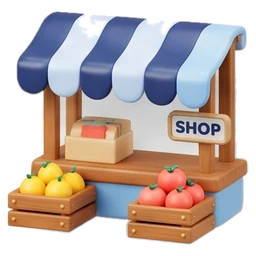
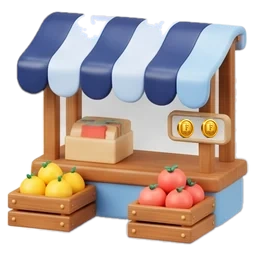
Revisão 18/11 (cara de rascunho): Carteiro com casinhas pintadas numa rua da vila, Corre-Som com placas grandes e toque igual nas 3 pistas, barraca da Lojinha sem "SHOP", ícones 3D para Meu boneco e Passear 3D, tutorial com figuras 3D, fundos sem a Sofia e o Tales repetidos
Claude-Session: https://claude.ai/code/session_01XFnar5EqvbkeuXqeMQuF5Q

Changed region(s): [[0.6875, 0.4375, 0.875, 0.5625]]

diff --git a/app/web/src/telas/crianca/Tutorial.tsx b/app/web/src/telas/crianca/Tutorial.tsx
@@ -16,7 +16,7 @@ import { PASSOS_TUTORIAL, estadoDoCaminho, marcarTutorial, missaoDeHoje, passoPa
 import { useCrianca } from '../../contexto.tsx';
 import { navegar } from '../../rotas.ts';
 import { AvatarMini, Carregando } from '../../componentes/basicos.tsx';
-import { Icone } from '../../componentes/ui.tsx';
+import { Figura, Icone } from '../../componentes/ui.tsx';
 import { PersonagemVivo, temBustoVivo } from '../../componentes/PersonagemVivo.tsx';
 import { BarraMissao, CaminhoEtapas } from '../../componentes/Guia.tsx';
 import { asset, modoTeste } from '../../servicos/ambiente.ts';
@@ -36,6 +36,8 @@ const FALAS_DO_PASSO: Fala[][] = [
   [F.barra1, F.barra2]
 ];
 const NOME_PASSO = ['O mundo', 'O caminho', 'Como mexer', 'O que você ganha', 'Os jogos', 'A primeira missão'];
+/** Revisão 18/11 (item 23): no passo do Brincar, cada brincadeira com a figura 3D da capa dela (como no Brincar), não ícone chapado. */
+const FIGURA_JOGO: Record<string, string> = { comprida: 'formiga', escondida: 'sapato', rimas: 'rato', intruso: 'vela', comeco: 'sapo', palmas: 'abacaxi' };
 const FIGURA_PASSO = ['arte/icones/mapa.webp', 'figuras/estrela.webp', 'figuras/dedo.webp', 'recompensas/moeda.webp', 'figuras/pandeiro.webp', 'modelos3d/bau.webp'];
 
 type Mexer = 'tocar' | 'arrastar' | 'botoes' | 'pronto';
@@ -134,7 +136,7 @@ export function Tutorial({ criancaId, deNovo }: { criancaId: string; deNovo: boo
   return (
     <div className={`tela-tutorial passo-${passo}`} data-testid="tutorial" data-passo={passo}>
       <div className="tut-fundo" aria-hidden="true">
-        {passo === 0 ? <div className="tut-camera"><img src={asset('arte/mapa-arquipelago.webp')} alt="" draggable={false} /></div> : <img className="tut-paisagem" src={asset('arte/hero-paisagem.webp')} alt="" draggable={false} />}
+        {passo === 0 ? <div className="tut-camera"><img src={asset('arte/mapa-arquipelago.webp')} alt="" draggable={false} /></div> : <img className="tut-paisagem" src={asset('arte/paisagem-sem-dupla.webp')} alt="" draggable={false} />}
       </div>
 
       <header className="tut-topo">
@@ -310,7 +312,7 @@ function PassoJogos() {
       </div>
       <ul className="tut-jogos-lista" aria-label="Alguns jogos">
         {JOGOS_ESCUTA.slice(0, 6).map((j, i) => (
-          <li key={j.id} className={`cor-${j.cor}`} style={{ ['--i' as string]: i }}><Icone nome={j.icone} /><span>{j.nome}</span></li>
+          <li key={j.id} className={`cor-${j.cor}`} style={{ ['--i' as string]: i }}>{FIGURA_JOGO[j.id] ? <Figura palavra={FIGURA_JOGO[j.id]} /> : <Icone nome={j.icone} />}<span>{j.nome}</span></li>
         ))}
       </ul>
     </section>

diff --git a/app/web/src/telas/crianca/DocaVila.tsx b/app/web/src/telas/crianca/DocaVila.tsx
@@ -69,7 +69,7 @@ export function DocaVila({ criancaId, progresso, faseId, mundo3d }: { criancaId:
         {RECURSOS.brincar ? <BotaoDoca onClick={() => { marcarVistoAqui(criancaId, 'som'); ir(`${c}/brincar`); }} figura={<img className="ic ic3d" src={asset('figuras/pandeiro.webp')} alt="" draggable={false} />} rotulo="Brincar" testid="ir-brincar" ponto="brincar" novo={ehNovo(progresso, criancaId, 'jogo') || ehNovo(progresso, criancaId, 'som')} /> : null}
         {lojinha
           ? <BotaoDoca onClick={() => { marcarVistoAqui(criancaId, 'peca'); ir(`${c}/lojinha`); }} figura={<Icone nome="lojinha" />} rotulo="Lojinha" testid="ir-lojinha" ponto="lojinha" novo={ehNovo(progresso, criancaId, 'peca')} />
-          : <BotaoDoca onClick={() => { marcarVistoAqui(criancaId, 'peca'); ir(`${c}/avatar`); }} figura={<Icone nome="casa" />} rotulo="Meu boneco" testid="ir-boneco" ponto="boneco" novo={ehNovo(progresso, criancaId, 'peca')} />}
+          : <BotaoDoca onClick={() => { marcarVistoAqui(criancaId, 'peca'); ir(`${c}/avatar`); }} figura={<Icone nome="boneco" />} rotulo="Meu boneco" testid="ir-boneco" ponto="boneco" novo={ehNovo(progresso, criancaId, 'peca')} />}
         <button className={`doca2-btn doca2-mais ${temTreino ? 'com-treino' : ''}`} onClick={abrir} aria-haspopup="dialog" aria-expanded={aberto} data-testid="ir-mais">
           <span className="doca2-fig"><Mosaico /></span>
           <span className="doca2-rotulo">Mais</span>
@@ -110,8 +110,8 @@ function PainelMais({ c, criancaId, progresso, lojinha, mundo3d, fechar }: { c: 
           {item(`${c}/sons`, <img className="ic ic3d" src={asset('arte/icones/som.webp')} alt="" draggable={false} />, 'Sons', 'sons')}
           {item(`${c}/album`, <img className="ic ic3d" src={asset('arte/icones/album.webp')} alt="" draggable={false} />, 'Álbum', 'album')}
           {item(`${c}/mapa`, <img className="ic ic3d" src={asset('arte/icones/mapa.webp')} alt="" draggable={false} />, 'Ilhas', 'ilhas')}
-          {lojinha ? item(`${c}/avatar`, <img className="ic ic3d" src={asset('arte/icones/casa.webp')} alt="" draggable={false} />, 'Meu boneco', 'boneco') : null}
-          {mundo3d && RECURSOS.mundo3d ? item(`${c}/mundo`, <Icone nome="cubo" />, 'Passear 3D', 'mundo3d') : null}
+          {lojinha ? item(`${c}/avatar`, <Icone nome="boneco" />, 'Meu boneco', 'boneco') : null}
+          {mundo3d && RECURSOS.mundo3d ? item(`${c}/mundo`, <Icone nome="passeio" />, 'Passear 3D', 'mundo3d') : null}
         </div>
       </div>
     </div>,

diff --git a/app/web/src/estilos-telas.css b/app/web/src/estilos-telas.css
@@ -93,3 +93,18 @@ html,body{overflow-x:clip}
 .cs-placa.modelo,.cs-placa.acesa,.cs-placa.certo{box-shadow:0 0 0 6px #FFD652,0 0 30px 10px rgba(255,214,82,.75);animation:pulsa 1.1s ease-in-out infinite}
 @media (max-width:560px){.cs-placas{bottom:34%}.cs-placa{width:88px;border-width:5px;border-radius:20px}.cs-placa .cs-letra{font-size:60px}}
 html.menos-movimento .cs-placa{animation:none!important;transition:none}
+
+/* ---------- Carteiro da Vila (item 22): casinhas pintadas numa rua da vila ---------- */
+.jogo-carteiro .ct-cena,.ct-cena{background:linear-gradient(180deg,rgba(255,255,255,.08),rgba(255,255,255,0) 40%,rgba(120,90,50,.18)),url(/assets/arte/jogos/rua-vila.webp) center 62%/cover;overflow:hidden}
+.ct-cena::before{content:"";position:absolute;inset:0;backdrop-filter:blur(3px) saturate(.9);-webkit-backdrop-filter:blur(3px) saturate(.9);background:rgba(255,248,232,.18);border-radius:inherit;pointer-events:none}
+.ct-cena>*{position:relative}
+.ct-casa .ct-parede.ct-arte{position:relative;width:100%;aspect-ratio:1;margin:0;background:none;border-radius:0;box-shadow:none;filter:drop-shadow(0 10px 10px rgba(40,25,10,.35));transition:filter .2s}
+.ct-casa .ct-casa-img{display:block;width:100%;height:100%;object-fit:contain;pointer-events:none;user-select:none}
+.ct-casa .ct-arte .ct-placa{position:absolute;top:calc(var(--py) * 100%);left:calc(var(--px) * 100%);width:calc(var(--pl) * 100%);transform:translate(-50%,-50%);border-radius:14px;background:#FFFDF6;box-shadow:0 4px 0 #b88a52,0 0 0 3px #d9b77f}
+.ct-casa .ct-arte .ct-caixa-correio{top:calc(var(--cy) * 100%);left:calc(var(--cx) * 100%);right:auto;bottom:auto;width:14%;height:10%;transform:translate(-50%,-50%);background:none;box-shadow:none}
+.ct-casa.modelo .ct-parede.ct-arte{filter:drop-shadow(0 0 10px #FFD652) drop-shadow(0 0 18px rgba(255,214,82,.9))}
+.ct-casa.certo .ct-parede.ct-arte{filter:drop-shadow(0 0 8px #5ccb85) drop-shadow(0 0 16px rgba(92,203,133,.9))}
+.ct-casa .ct-arte .ct-carta-dentro{top:-60%;left:20%;width:60%;height:80%}
+
+/* ---------- Tutorial (item 23): cada brincadeira com a figura 3D da capa ---------- */
+.tut-jogos-lista li .fig{width:52px;height:52px;flex:none;object-fit:contain;border-radius:50%;background:radial-gradient(circle at 40% 35%,#fff,var(--ceu));padding:4px}

diff --git a/app/web/src/telas/entrada/Entrada.tsx b/app/web/src/telas/entrada/Entrada.tsx
@@ -123,7 +123,7 @@ export function Alunos() {
   };
   return (
     <div className="tela-fluxo tela-alunos" data-testid="alunos">
-      <Fundo cena="arte/hero-paisagem" desfoque={16} tom="claro" />
+      <Fundo cena="arte/paisagem-sem-dupla" desfoque={16} tom="claro" />
       <Topo voltar="" titulo="Alunos" />
       <main className="alunos-palco">
         {lista.length ? (
@@ -333,7 +333,7 @@ export function TelaPin({ contas, tipo, aoEntrar, titulo, sub, voltar = '' }: { 
   const arte = tipo === 'professor' ? <img src={asset('arte/icones/album.webp')} alt="" /> : tipo === 'responsavel' ? <span className="porta-par"><img src={asset('figuras/mamae.webp')} alt="" /><img src={asset('figuras/papai.webp')} alt="" /></span> : <img src={asset('arte/icones/cadeado.webp')} alt="" />;
   return (
     <div className="tela-fluxo tela-pin" data-testid="tela-pin">
-      <Fundo cena="arte/hero-paisagem" desfoque={16} tom="escuro" />
+      <Fundo cena="arte/paisagem-sem-dupla" desfoque={16} tom="escuro" />
       <Topo voltar={voltar} titulo={tipo ? NOME_AREA[tipo] : 'Área dos adultos'} />
       <main className="pin-palco">
         <section className="cartao pin-cartao">

diff --git a/app/web/src/telas/crianca/Lojinha.tsx b/app/web/src/telas/crianca/Lojinha.tsx
@@ -119,7 +119,7 @@ export function Lojinha({ criancaId }: { criancaId: string }) {
           </div>
 
           <div className="abas loja-abas" role="tablist" aria-label="Seções da Lojinha">
-            <button role="tab" aria-selected={aba === 'boneco'} className={`btn ${aba === 'boneco' ? 'pri' : ''}`} onClick={() => setAba('boneco')} data-aba="boneco"><Icone nome="pessoa" />Meu boneco</button>
+            <button role="tab" aria-selected={aba === 'boneco'} className={`btn ${aba === 'boneco' ? 'pri' : ''}`} onClick={() => setAba('boneco')} data-aba="boneco"><Icone nome="boneco" />Meu boneco</button>
             <button role="tab" aria-selected={aba === 'acessibilidade'} className={`btn ${aba === 'acessibilidade' ? 'pri' : ''}`} onClick={() => { setAba('acessibilidade'); setProvando(null); }} data-aba="acessibilidade"><Icone nome="olho" />Acessibilidade</button>
             <button role="tab" aria-selected={aba === 'utensilios'} className={`btn ${aba === 'utensilios' ? 'pri' : ''}`} onClick={() => { setAba('utensilios'); setProvando(null); }} data-aba="utensilios"><Icone nome="lojinha" />Utensílios</button>
           </div>

diff --git a/app/web/src/estilos-guia.css b/app/web/src/estilos-guia.css
@@ -108,7 +108,7 @@
 @media (min-width:900px){
   .tela-vila:has(.guia-vila) .mapa-nav{left:336px!important}
   .tela-vila>aside.guia-vila{position:absolute;z-index:4;left:0;top:0;bottom:0;width:336px;padding:96px 14px 0 16px;overflow:hidden;background:linear-gradient(180deg,#CFE6F7 0%,#E6F3FC 45%,#F6EEDC 100%);box-shadow:inset -10px 0 18px -12px rgba(12,26,64,.35)}
-  .guia-vila::before{content:"";position:absolute;inset:0;background:url(/assets/arte/hero-paisagem.webp) 30% 60%/cover;opacity:.32;filter:blur(10px);pointer-events:none;z-index:-1}
+  .guia-vila::before{content:"";position:absolute;inset:0;background:url(/assets/arte/paisagem-sem-dupla.webp) 30% 60%/cover;opacity:.32;filter:blur(10px);pointer-events:none;z-index:-1}
   .guia-vila .guia-corpo{padding:10px;gap:8px;max-height:calc(100dvh - 96px - 128px);overflow:auto;scrollbar-width:thin}
 }
 @media (min-width:900px) and (max-height:820px){

diff --git a/app/web/src/telas/crianca/Ritual.tsx b/app/web/src/telas/crianca/Ritual.tsx
@@ -81,7 +81,7 @@ export function Ritual({ crianca, progresso, relatorio, fase, expressa }: { cria
   const idade = new Date().getFullYear() - crianca.anoNascimento;
   return (
     <div className="tela-ritual" data-testid="ritual">
-      <Fundo cena="arte/hero-paisagem" desfoque={10} tom="claro" />
+      <Fundo cena="arte/paisagem-sem-dupla" desfoque={10} tom="claro" />
       {relatorio.conquistasNovas.length || relatorio.faseConcluida ? <div className="confete" aria-hidden="true">{Array.from({ length: 26 }, (_, i) => <i key={i} style={{ left: `${(i * 41 + 7) % 100}%`, animationDuration: `${3.5 + (i % 5) * 0.7}s`, animationDelay: `${(i % 9) * 0.25}s` }} />)}</div> : null}
       <Topo crianca={crianca} moedinhas={saldoAgora} titulo="Fim da missão de hoje" />
       <main className="palco ritual">

diff --git a/app/web/src/telas/crianca/Mundo.tsx b/app/web/src/telas/crianca/Mundo.tsx
@@ -29,7 +29,7 @@ export function Chegada({ criancaId }: { criancaId: string }) {
   if (!crianca || !progresso) return <Carregando />;
   return (
     <div className="tela-chegada">
-      <Fundo cena="arte/hero-paisagem" desfoque={6} tom="claro" />
+      <Fundo cena="arte/paisagem-sem-dupla" desfoque={6} tom="claro" />
       <Topo crianca={crianca} titulo="Vila das Letras" />
       <main className="palco chegada">
         {/* D029/D025: a dupla em 3D de verdade (arrastar gira); quem fala com a boca é o busto do balão */}
